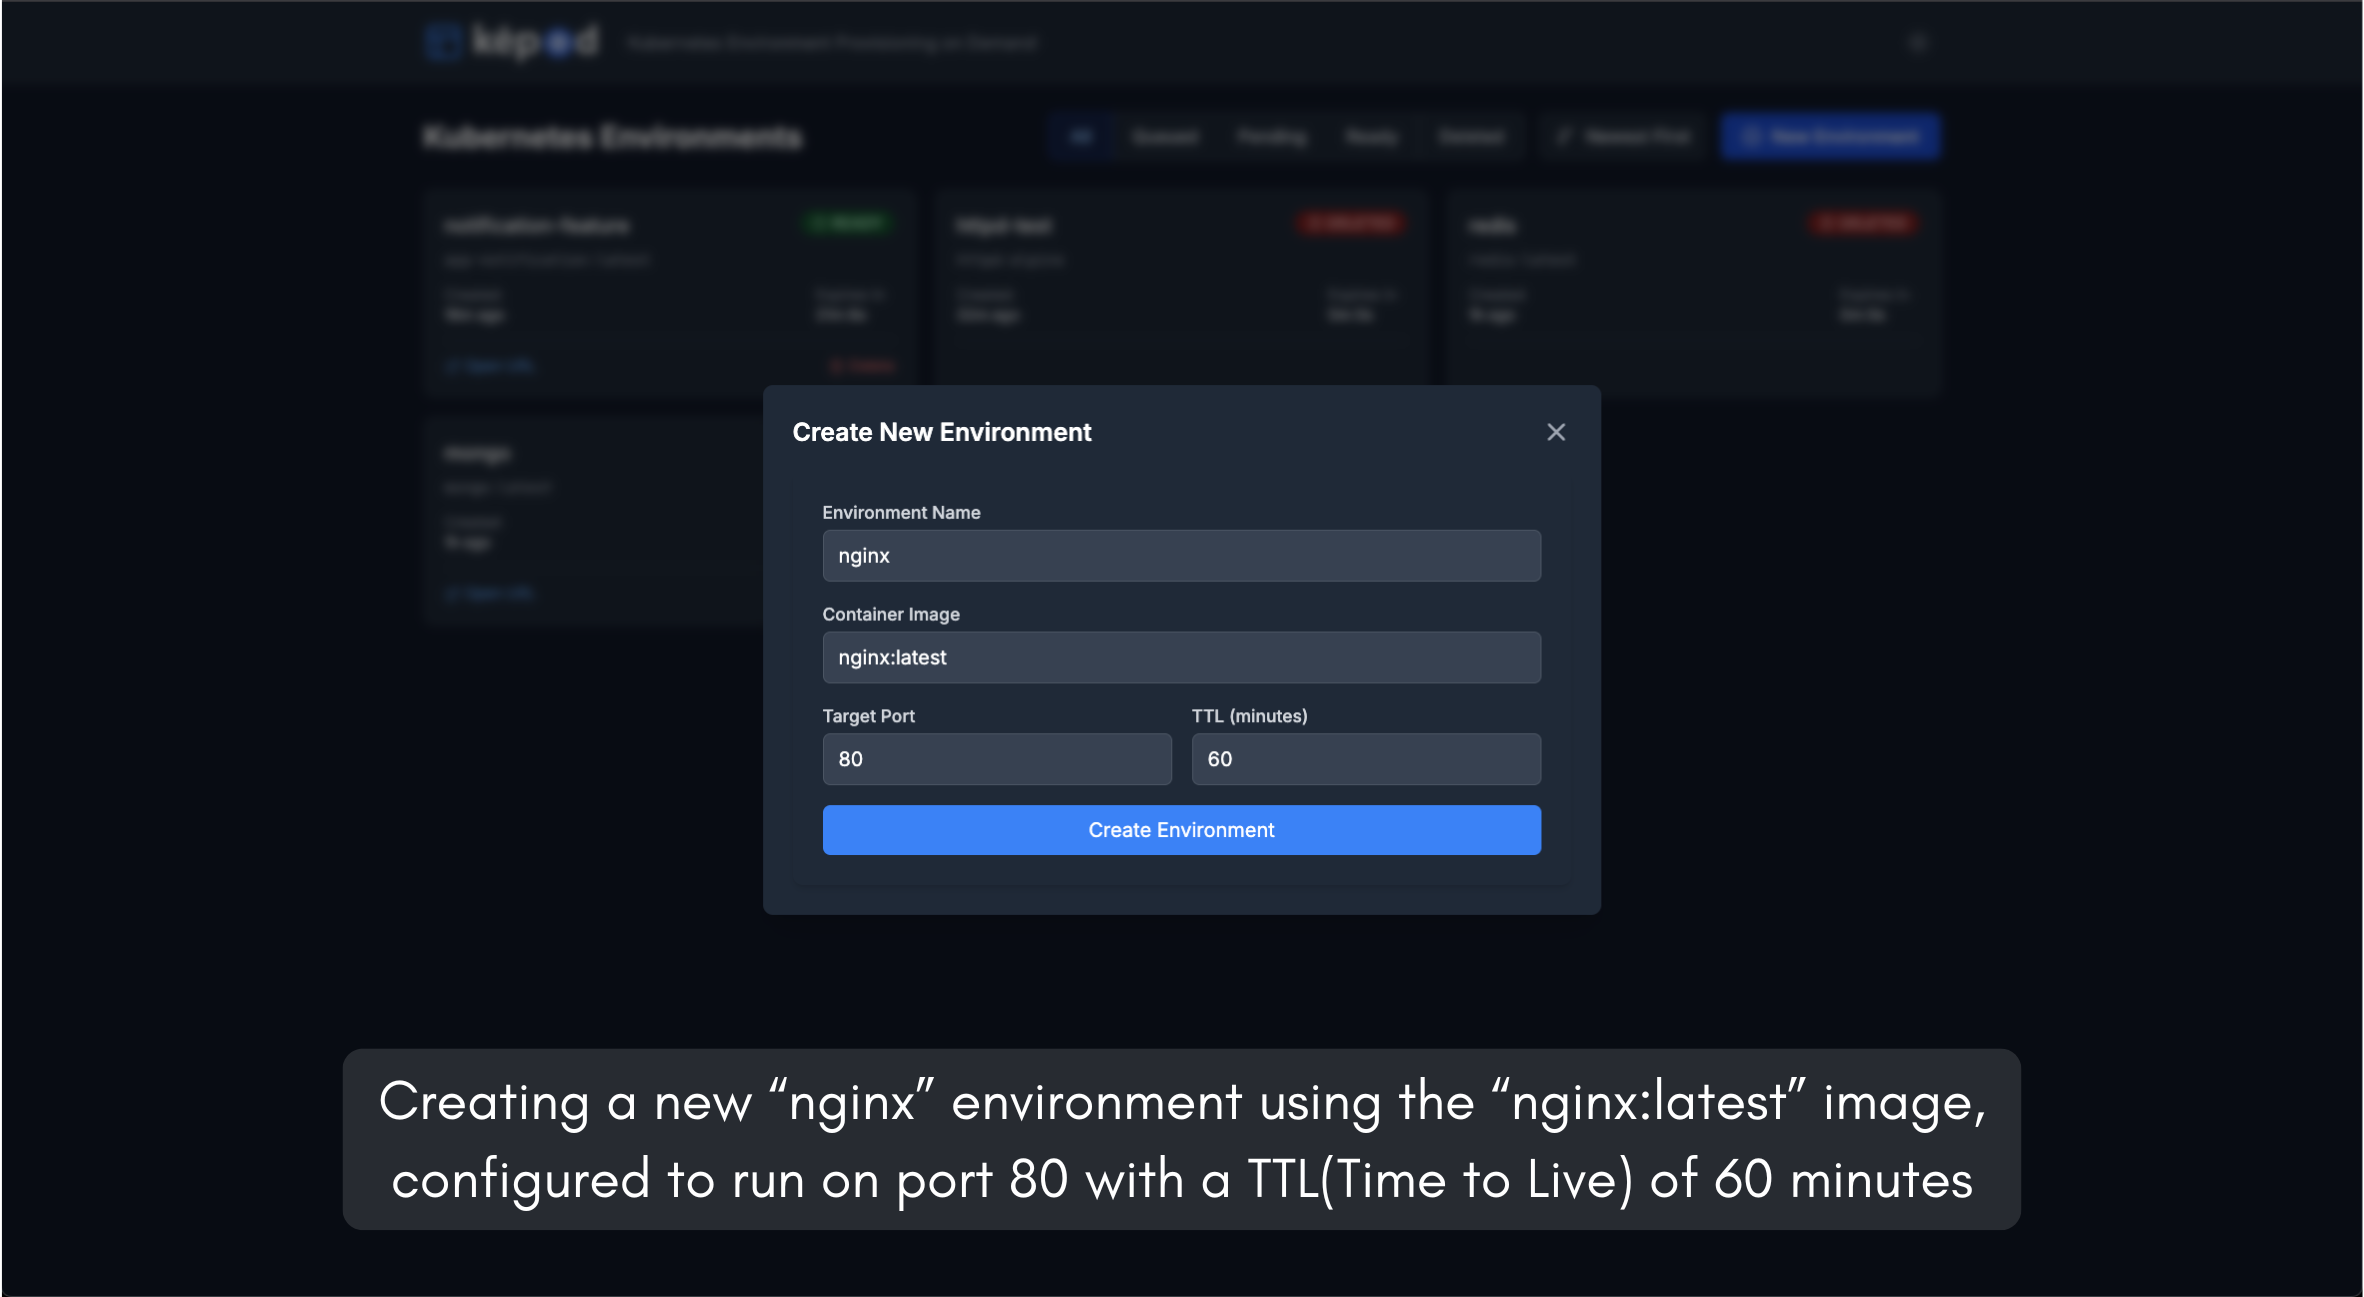
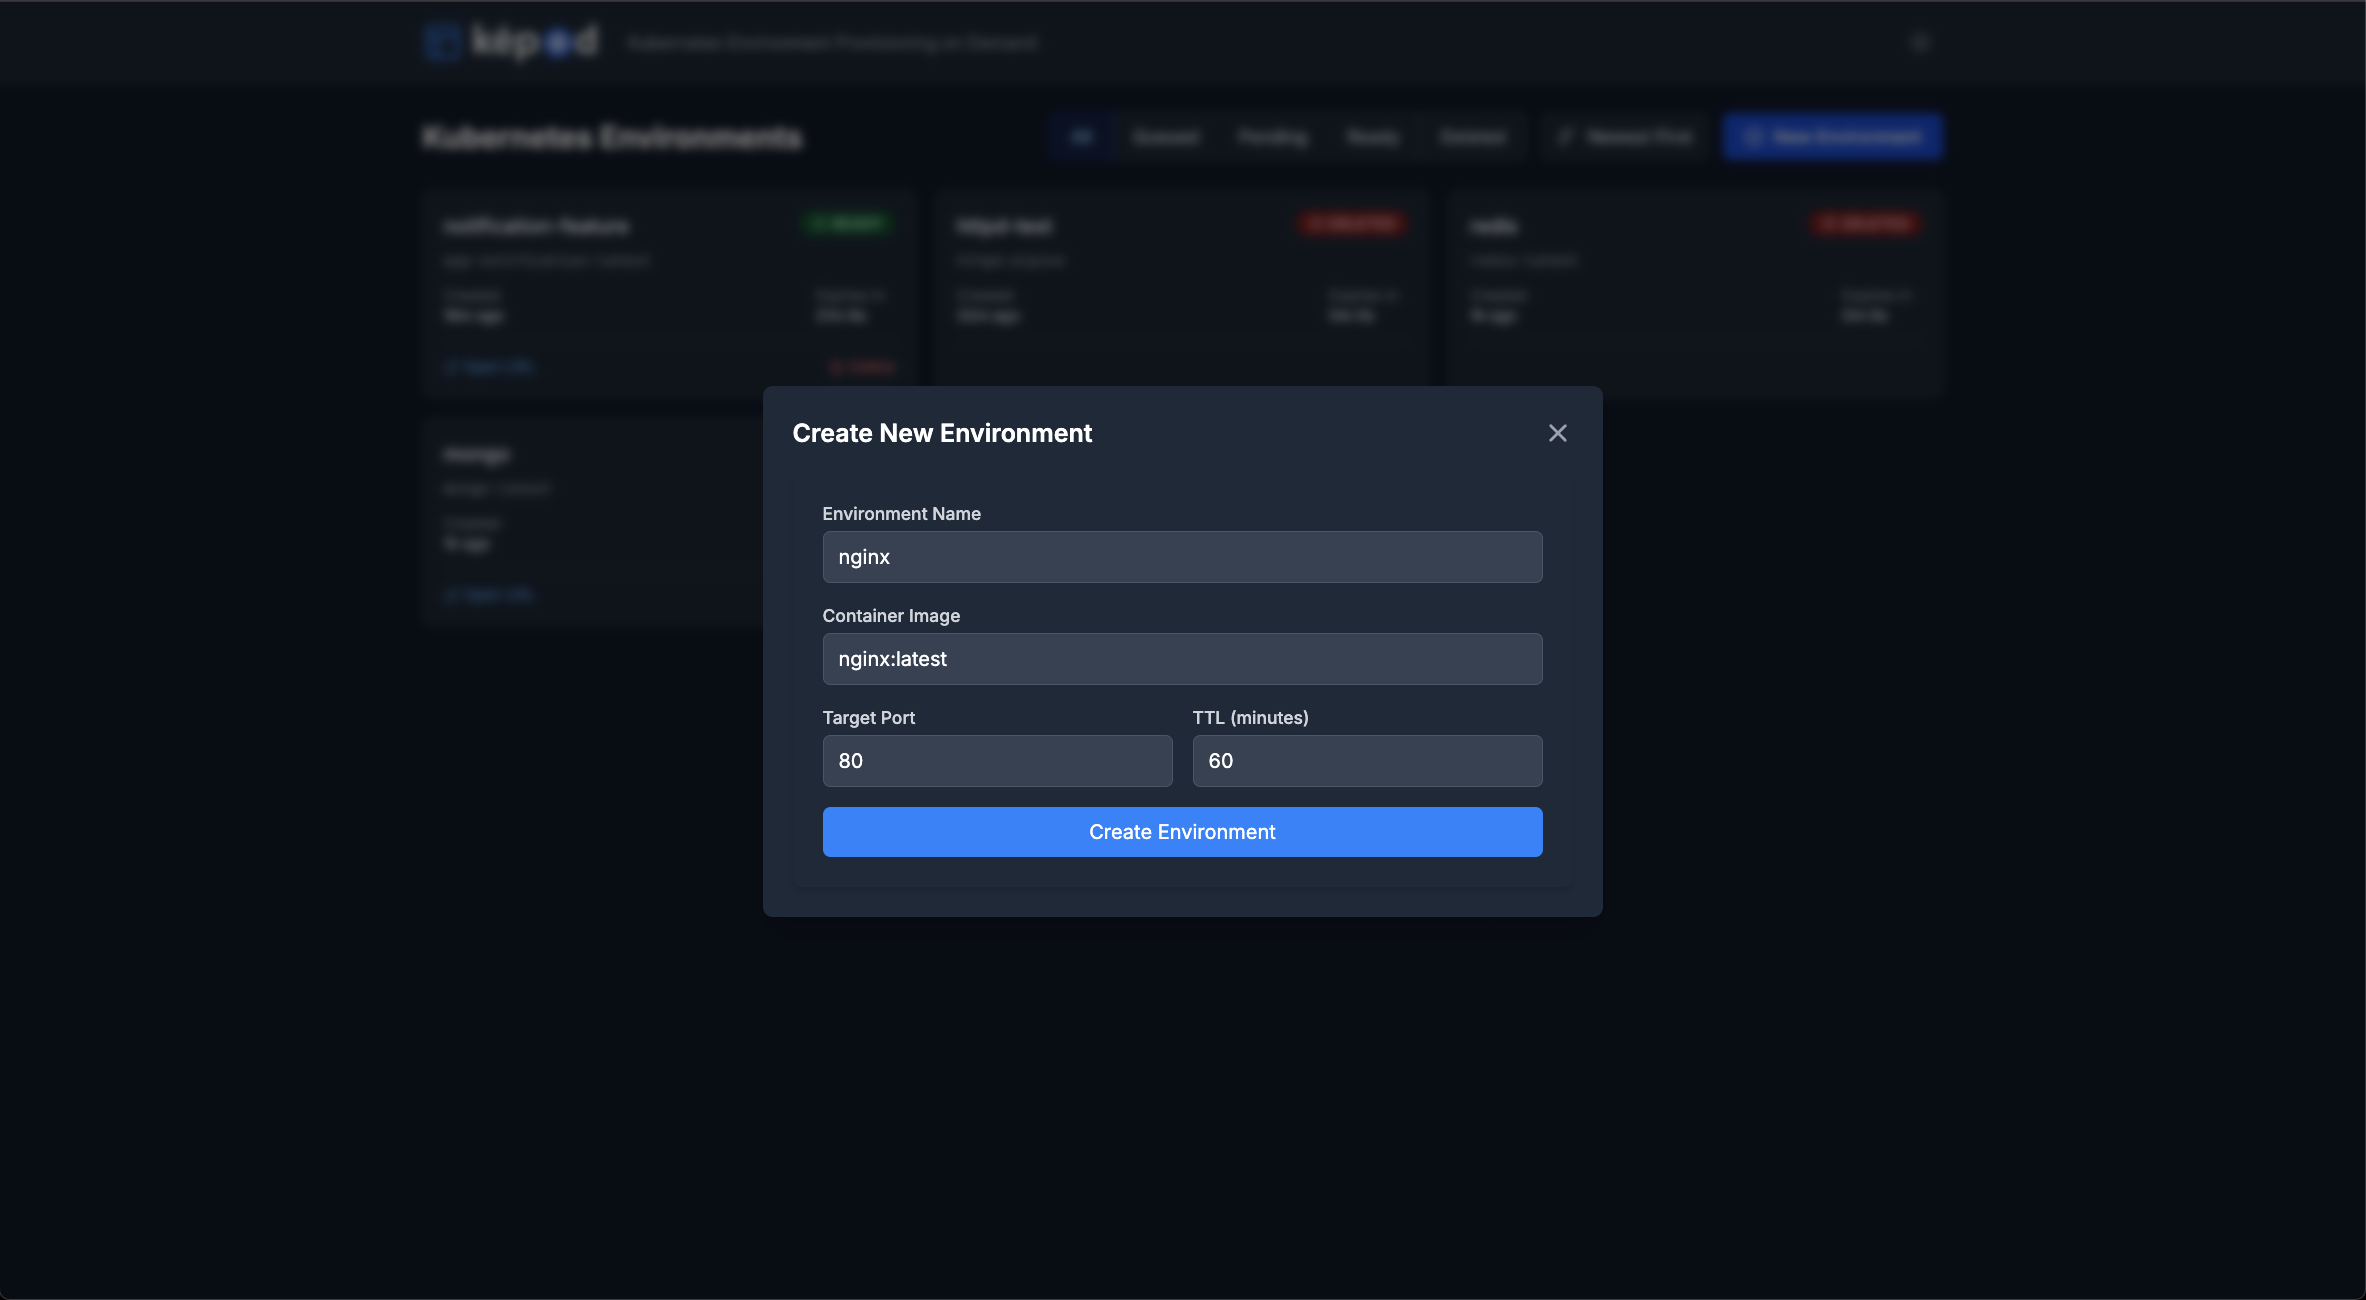
feat: update README.md with detailed features, tech stack, and getting started instructions; replace asset image 2.png

diff --git a/README.md b/README.md
@@ -1,2 +1,235 @@
 # KEPOD
-Kubernetes Environment Provisioner On Demand
+
+**Kubernetes Environment Provisioning On Demand** — a dynamic environment provisioning system that allows developers to spin up ephemeral Kubernetes environments for testing and development, complete with real-time log monitoring and automatic TTL-based cleanup.
+
+---
+
+## 🧩 Features
+
+- 🌀 **On-Demand Provisioning** — create environments with custom Docker images and TTL
+- 📜 **Live Pod Logs** — real-time log streaming via WebSocket
+- ⏱ **TTL Expiry** — automatic deletion of environments after specified time
+- 🌐 **Public URLs** — access services directly via Kubernetes LoadBalancer
+- 🔐 **AWS-Backed Infrastructure** — using EKS, SQS, DynamoDB, ECR and S3
+- 📈 **CloudWatch Dashboard** — monitoring environment health & metrics
+
+---
+
+## 🛠 Tech Stack
+
+| Layer        | Tech Used                     |
+|--------------|-------------------------------|
+| Frontend     | React, Tailwind CSS           |
+| Backend      | Node.js, Express.js           |
+| Provisioner  | Node.js + Kubernetes Client   |
+| Infra        | AWS EKS, SQS, DynamoDB, S3    |
+| DevOps       | CloudFormation, ECR, kubectl  |
+| Log Stream   | WebSocket + Kubernetes API    |
+
+---
+
+## 🚀 Getting Started
+
+To run KEPOD end-to-end:
+
+### 1. 📦 Create AWS Infrastructure
+
+Provision the resources using the CloudFormation template:
+
+```bash
+aws cloudformation deploy \
+  --template-file kepod-stack.yaml
+  --stack-name kepod-stack \
+  --region us-east-1 \
+  --capabilities CAPABILITY_IAM
+```
+
+> This creates your VPC, EKS cluster, ECR repos, SQS queue, DynamoDB table, log groups and necessary IAM roles.
+
+---
+
+### 2. 🐳 Build & Push Docker Images
+
+```bash
+# Build KEPOD API image
+docker build -t kepod-api:latest .
+
+# Build Provisioner image
+docker build -f Dockerfile.provisioner -t kepod-provisioner:latest .
+
+# Tag and push to ECR
+aws ecr get-login-password | docker login --username AWS --password-stdin <your-account-id>.dkr.ecr.us-east-1.amazonaws.com
+
+docker tag kepod-api:latest <api-ecr-repo-uri>
+docker push <api-ecr-repo-uri>
+
+docker tag kepod-provisioner:latest <provisioner-ecr-repo-uri>
+docker push <provisioner-ecr-repo-uri>
+```
+
+---
+
+### 3. ☸ Deploy to Kubernetes
+
+Apply Kubernetes resources **in this order**:
+
+```bash
+# Set kube context to EKS cluster
+aws eks update-kubeconfig --name kepod-cluster --region us-east-1
+
+# 1. Namespace
+kubectl apply -f k8s/kepod-api/namespace.yaml
+
+# 2. Secret for ECR credentials
+kubectl apply -f k8s/kepod-api/kepod-credentials-secret.yaml
+
+# 3. KEPOD API
+kubectl apply -f k8s/kepod-api/
+
+# 4. RBAC for provisioner
+kubectl apply -f k8s/rbac/
+
+# 5. Provisioner deployment
+kubectl apply -f k8s/provisioner/
+```
+
+---
+
+### 4. 🌐 Get Public URL
+
+```bash
+kubectl get svc -n kepod
+```
+
+Copy the `EXTERNAL-IP` and use port `3000` for the API, `8080` for WebSocket.
+
+---
+
+## 📸 Walkthrough
+
+### 0. System Architecture Overview
+The KEPOD system provisions ephemeral Kubernetes environments on demand. The architecture leverages AWS EKS, SQS, DynamoDB and a WebSocket server to provide real-time log streaming and environment management.
+
+![AWS Architecture](src/assets/kepod-architecture.png)
+
+### 1. Dashboard View
+> Dashboard view of all Kubernetes environments with real time status indicators to easily monitor provisioning progress
+
+![Dashboard View](src/assets/1.png)
+
+---
+
+### 2. Creating a New Environment
+> Creating a new environment using nginx:latest image on port 80 with a TTL of 60 minutes
+
+![Create Modal](src/assets/2.png)
+
+---
+
+### 3. Environment Pending
+> Once submitted, the newly created environment appears in the dashboard with a status of PENDING
+
+![Pending Status](src/assets/3.png)
+
+---
+
+### 4. Environment Ready
+> When provisioning completes, the environment status updates to READY along with a publicly accessible URL
+
+![Ready Status](src/assets/4.png)
+
+---
+
+### 5. Environment Details & Logs
+> Clicking on a READY environment opens a detailed view with real-time log streaming for monitoring and debugging
+
+![Detail Modal](src/assets/5.png)
+
+---
+
+## 📁 Project Structure
+
+```
+.
+├── cloudformation/               # Infrastructure as Code (CloudFormation template)
+│   └── kepod-stack.yaml          # Full stack definition including VPC, EKS, S3, DynamoDB, etc.
+├── Dockerfile                    # For building the KEPOD API image
+├── Dockerfile.provisioner        # For building the Provisioner service image
+├── k8s/                          # Kubernetes deployment and service definitions
+│   ├── kepod-api/
+│   │   ├── deployment.yaml
+│   │   ├── kepod-credentials-secret.yaml
+│   │   ├── namespace.yaml
+│   │   └── service.yaml
+│   ├── provisioner/
+│   │   ├── deployment.yaml
+│   │   └── kepod-cleanup-cronjob.yaml
+│   └── rbac/
+│       ├── kepod-cluster-role.yaml
+│       └── kepod-cluster-role-binding.yaml
+├── src/                          # Source code
+│   ├── assets/                   # Architecture & UI screenshots for documentation
+│   │   ├── kepod-architecture.png
+│   │   ├── 1.png to 5.png        # Sequential demo screenshots
+│   ├── awsClients.ts             # AWS SDK clients for DynamoDB, SQS, etc.
+│   ├── config/                   # Config management
+│   │   └── config.ts
+│   ├── controllers/              # Express route controllers
+│   │   └── envController.ts
+│   ├── middleware/               # Express middleware functions
+│   │   ├── envExists.ts
+│   │   ├── errorHandler.ts
+│   │   ├── requestLogger.ts
+│   │   └── validateEnvRequest.ts
+│   ├── provisioner/              # Provisioner logic and background queue listener
+│   │   ├── cleanupEnv.ts
+│   │   ├── provisioner.ts
+│   │   └── queueListener.ts
+│   ├── routes/
+│   │   └── envRoutes.ts          # Environment-related API routes
+│   ├── types/                    # TypeScript types
+│   │   ├── envTypes.ts
+│   │   └── sqsMessageBodyTypes.ts
+│   ├── utils/
+│   │   ├── constants.ts
+│   │   └── logger.ts
+│   ├── websocket.ts              # WebSocket server for streaming pod logs
+│   └── server.ts                 # Entry point for the Express server
+├── tsconfig.json                 # TypeScript compiler configuration
+└── package.json / lock.json      # Project dependencies
+```
+
+---
+
+## 🤝 Contributing
+
+We welcome contributions from the community! Here's how:
+
+### 1. Fork & Clone
+```bash
+git clone https://github.com/NirbhayMeghpara/KEPOD.git
+cd KEPOD
+```
+
+### 2. Create a Branch
+```bash
+git checkout -b feature/your-feature-name
+```
+
+### 3. Commit and Push
+```bash
+git commit -m "Add: your changes"
+git push origin feature/your-feature-name
+```
+
+### 4. Make a PR
+
+Submit your pull request on GitHub!
+
+> Please include tests, follow consistent code style and update the documentation where applicable.
+
+---
+
+## 📃 License
+
+This project is licensed under the [MIT License](LICENSE).
